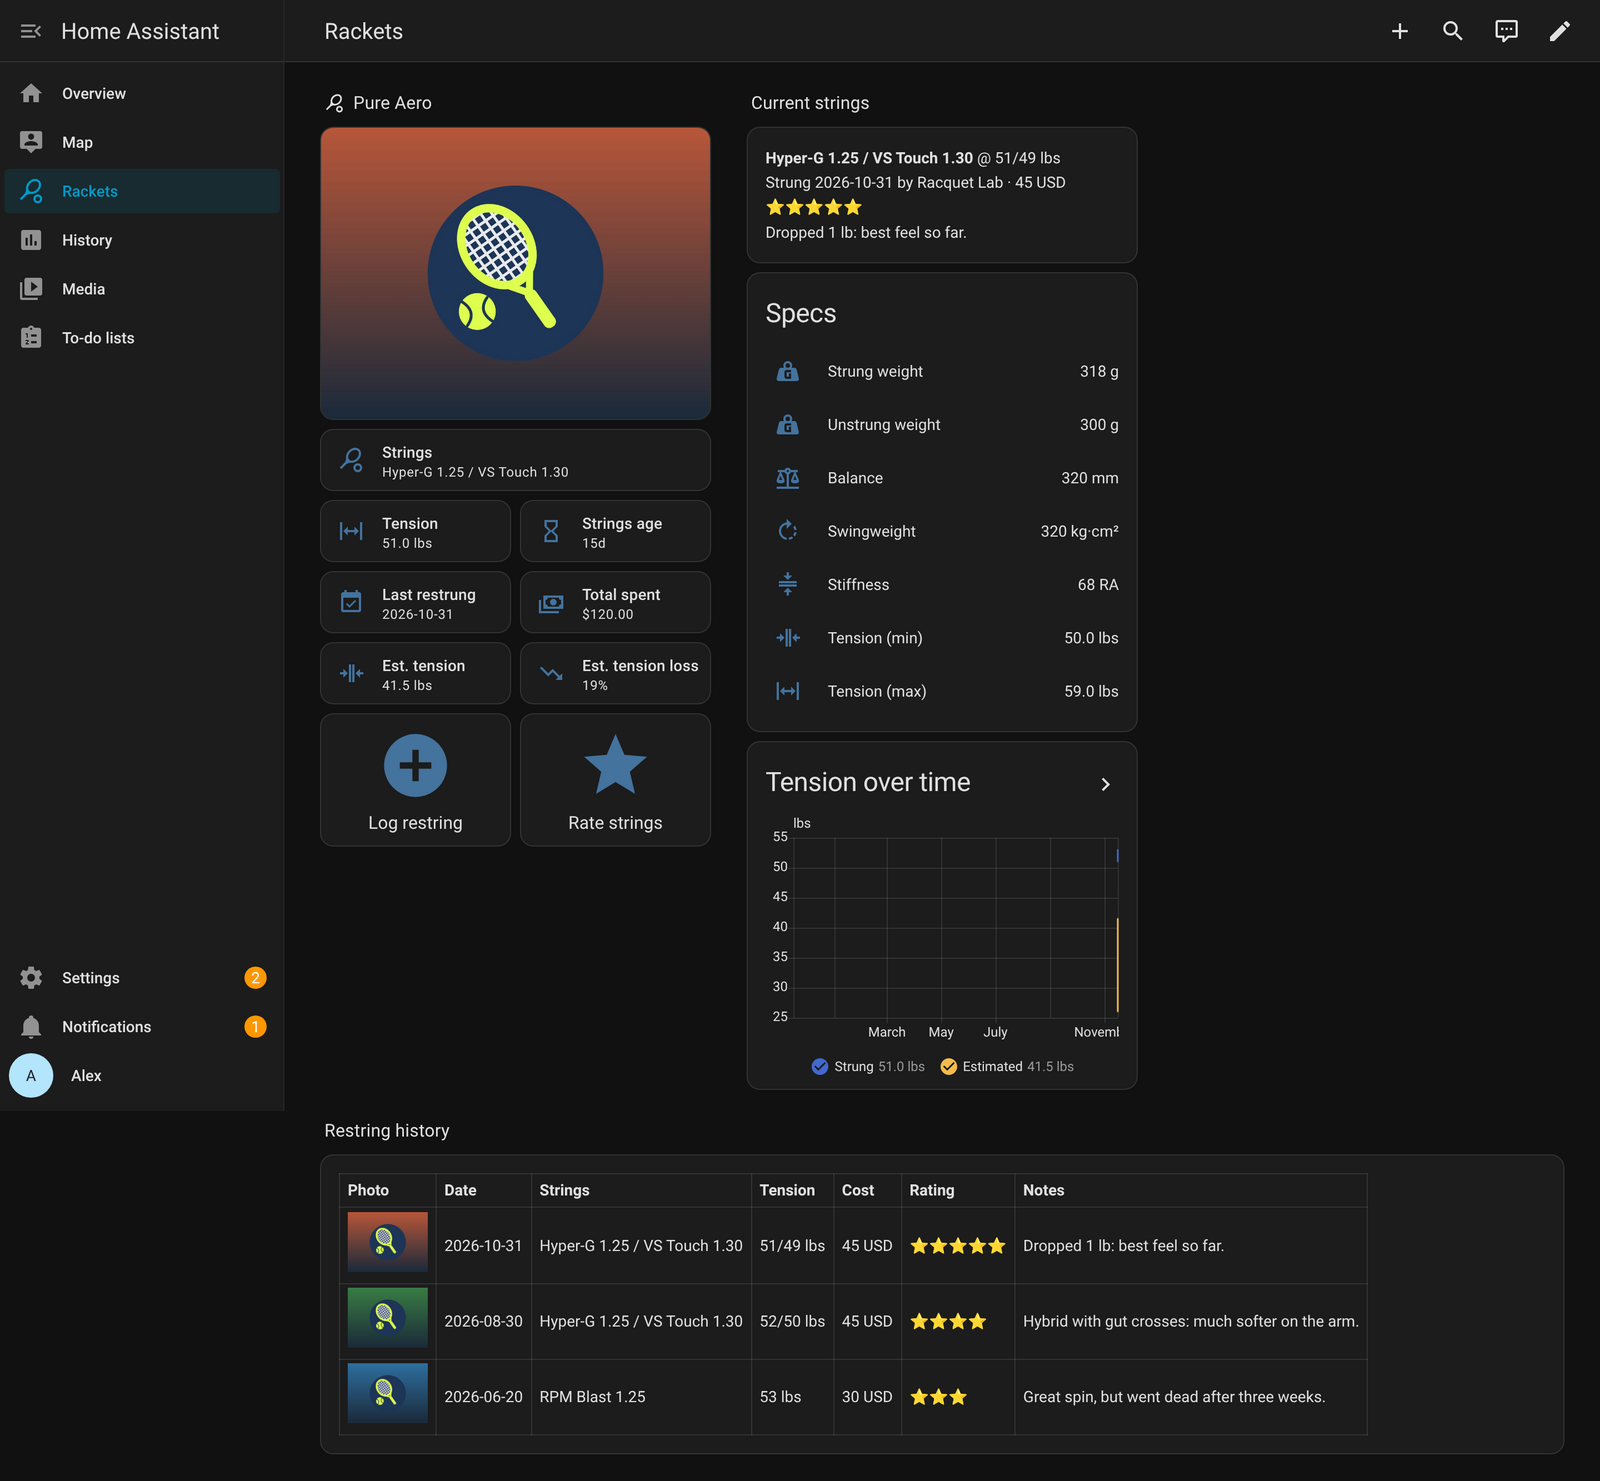
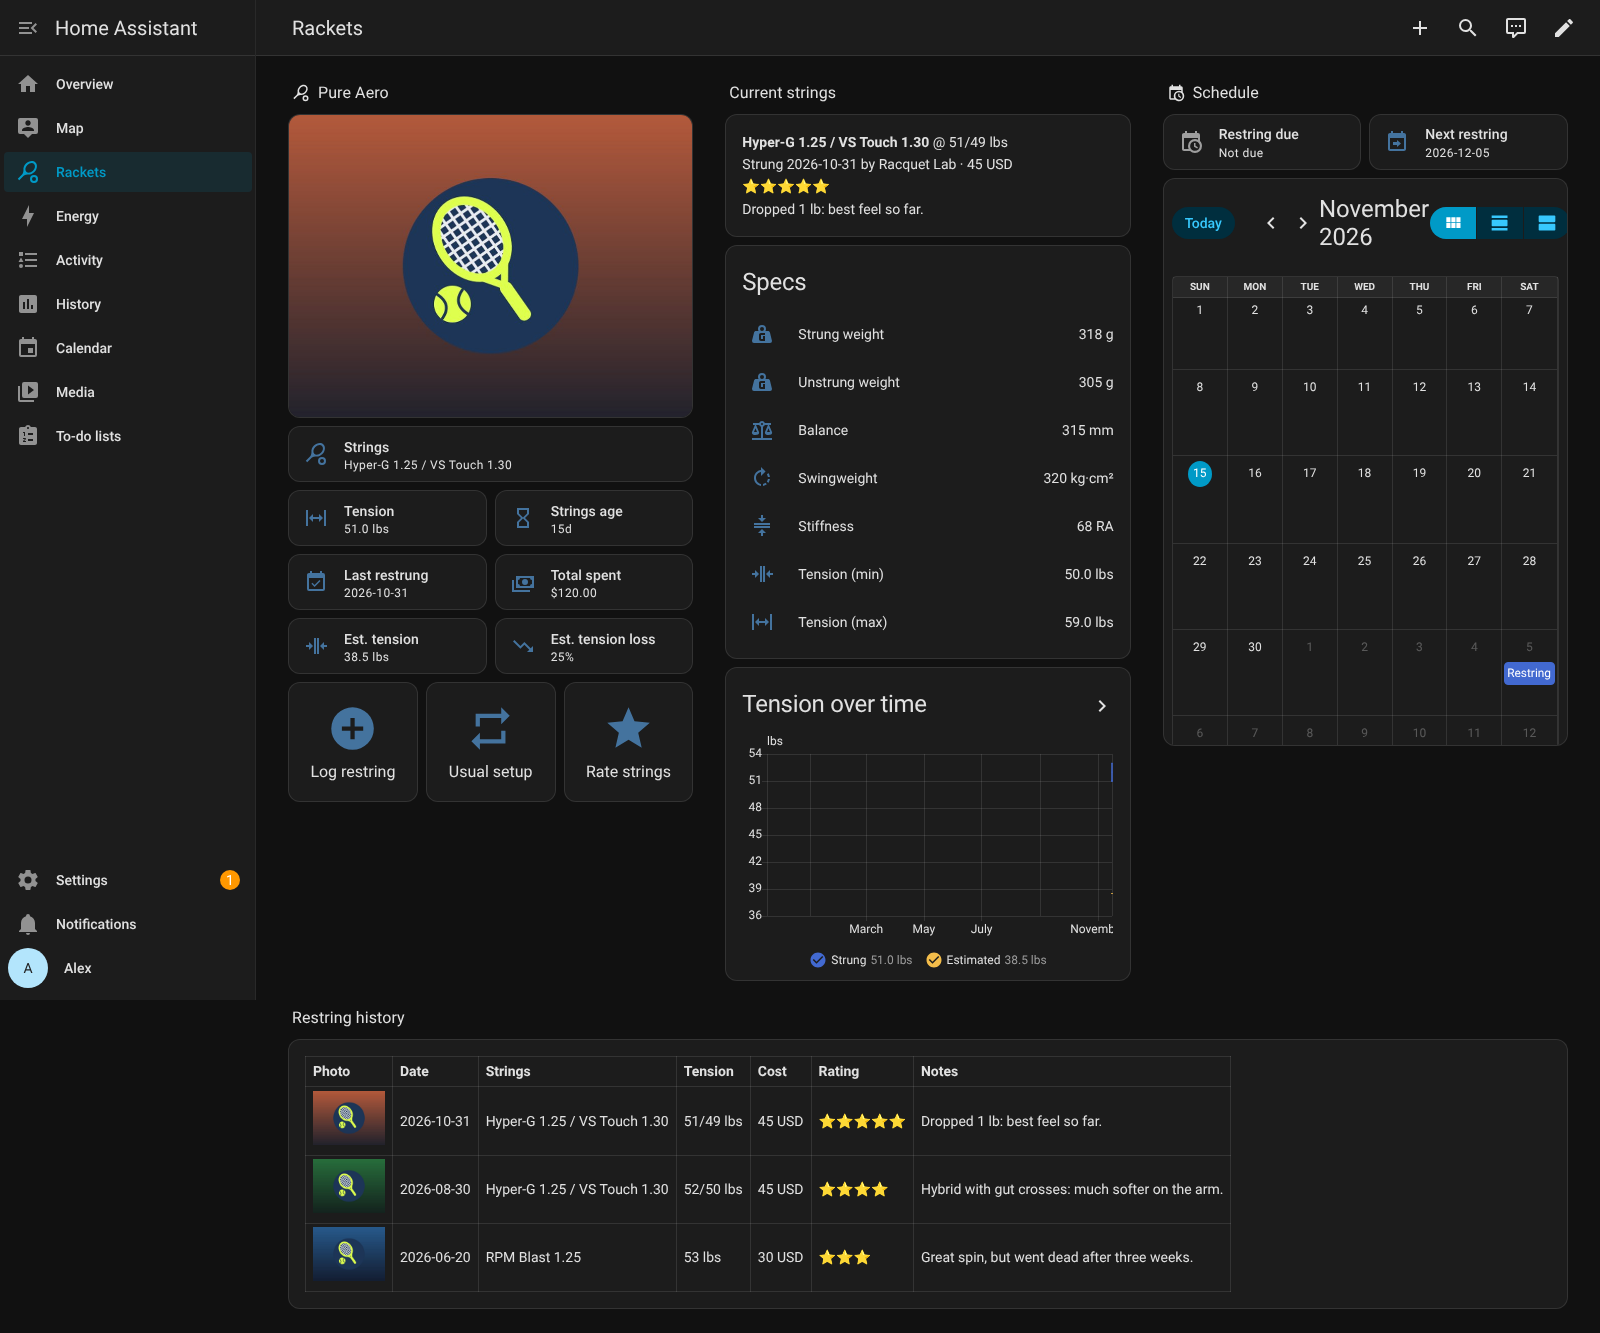
Dashboard: schedule column and usual-setup button; new screenshots
The example dashboard gets a Schedule column (Restring due, Next restring
and a month calendar of restrings and the next one due) and a Usual setup
button that presses the repeat-restring button after a confirmation.

Screenshots are a real Home Assistant 2026.9.4 rendering this branch's
dashboard.yaml, light and dark, with the same example data as before, so
they show the new estimate (38.5 lbs, 25 %) and the new entities.

Claude-Session: https://claude.ai/code/session_01SaaNWi1ziWLrJfJDKYbRnS

diff --git a/tests/test_examples.py b/tests/test_examples.py
@@ -100,6 +100,7 @@ async def test_dashboard_entities_exist(hass: HomeAssistant) -> None:
             "tension_unit": "lbs",
             "specs": {s.key: s.min for s in SPECS},
             "play": {"hours_per_week": 4},
+            "due": {"days": 60},
         },
     )
     await hass.async_block_till_done()

diff --git a/README.md b/README.md
@@ -28,7 +28,7 @@
 <p align="center">
 <picture>
   <source media="(prefers-color-scheme: dark)" srcset="images/screenshots/dashboard-dark.png">
-  <img src="images/screenshots/dashboard-light.png" alt="The example Rackets dashboard: photo, current hybrid strings, tension and estimated tension, specs from the dataset and your measurements, and a restring history table with photos" width="800">
+  <img src="images/screenshots/dashboard-light.png" alt="The example Rackets dashboard: photo, current hybrid strings, tension and estimated tension, log, usual setup and rate buttons, specs from the dataset and your measurements, restring due and next restring with a calendar, and a restring history table with photos" width="800">
 </picture>
 </p>
 
@@ -355,7 +355,10 @@ Home Assistant's built-in cards:
 
 - the racket photo, current strings, tension, string age, last restrung and total spent
 - the estimated tension now and how much has been lost (remove those two tiles if you don't set hours per week)
-- **Log restring** and **Rate strings** buttons (they open the script forms)
+- **Log restring** and **Rate strings** buttons (they open the script forms), and **Usual setup**,
+  which logs your [usual setup](#usual-setup) for today after a confirmation
+- a **Schedule** column: Restring due, Next restring and a month calendar of restrings and the next
+  one due (remove it if you don't set a [restring rule](#restring-due))
 - the current setup's rating and notes, your specs, and tension (strung and estimated) over time
 - a history table with photo thumbnails, strings, tensions, cost, stars and notes
 
